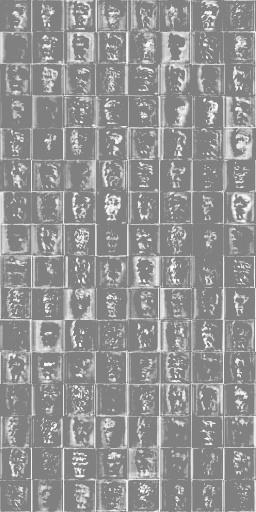
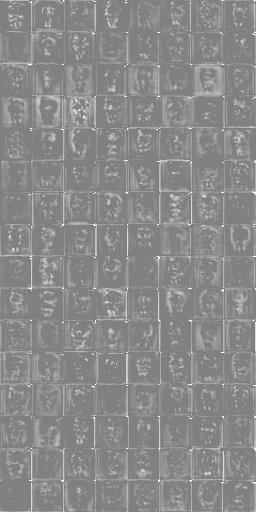
2/16+ add file

diff --git a/pose_estimate/gccpm-look-into/test.py b/pose_estimate/gccpm-look-into/test.py
@@ -110,7 +110,6 @@ def evaluate(dataset, results_folder, net, multiscale=False, visualize=False, sa
         sample = dataset[sample_id]
         file_name = sample['file_name']
         img = sample['image']
-
         if get_feature:
             avg_heatmaps,mid_feature = infer(net, img, scales, base_height, stride, num_kps=num_kps, visualize_feature=get_feature)
             save_feature_to_img(mid_feature, results_folder)
@@ -174,15 +173,20 @@ def evaluate(dataset, results_folder, net, multiscale=False, visualize=False, sa
 
 if __name__ == '__main__':
     parser = argparse.ArgumentParser()
-    parser.add_argument('--dataset_folder', type=str, default="./data_anime", help='path to dataset folder')
     parser.add_argument('--experiment_name', type=str, default='test',
                         help='name of output file with detected keypoints')
-    parser.add_argument('--checkpoint-path', type=str, default="checkpoints/checkpoint_real69.pth", help='path to the checkpoint')
     parser.add_argument('--multiscale', action='store_true', help='average inference results over multiple scales')
     parser.add_argument('--visualize', type=bool, default=True, help='show keypoints')
     parser.add_argument('--get_feature', type=bool, default=True, help='--get_feature')
     parser.add_argument('--save_maps', action='store_true', help='show keypoints')
-    parser.add_argument('--num_kps', type=int, default=21,  # need change 16 for real 21 for anime
+    # parser.add_argument('--checkpoint-path', type=str, default="checkpoints/checkpoint_real69.pth", help='path to the checkpoint')
+    # parser.add_argument('--dataset_folder', type=str, default="./data_anime", help='path to dataset folder')
+    # parser.add_argument('--num_kps', type=int, default=21,  # need change 16 for real 21 for anime
+    #                     help='number of key points')
+
+    parser.add_argument('--checkpoint-path', type=str, default="checkpoints/checkpoint_real.pth", help='path to the checkpoint')
+    parser.add_argument('--dataset_folder', type=str, default="./data_lip", help='path to dataset folder')
+    parser.add_argument('--num_kps', type=int, default=16,  # need change 16 for real 21 for anime
                         help='number of key points')
     args = parser.parse_args()
 

diff --git a/pose_estimate/gccpm-look-into/val.py b/pose_estimate/gccpm-look-into/val.py
@@ -126,10 +126,10 @@ if __name__ == '__main__':
     parser.add_argument('--dataset_folder', type=str, default="./data_lip", help='path to dataset folder')
     parser.add_argument('--output-name', type=str, default='detections.csv',
                         help='name of output file with detected keypoints')
-    parser.add_argument('--checkpoint-path', type=str, required=True, help='path to the checkpoint')
+    parser.add_argument('--checkpoint-path', type=str, default="checkpoints/checkpoint_real.pth", help='path to the checkpoint')
     parser.add_argument('--multiscale', action='store_true', help='average inference results over multiple scales')
     parser.add_argument('--visualize', action='store_true', help='show keypoints')
-    parser.add_argument('--num_kps', type=int, default=21,  # need change 16 for real 21 for anime
+    parser.add_argument('--num_kps', type=int, default=16,  # need change 16 for real 21 for anime
                         help='number of key points')
     args = parser.parse_args()
 

diff --git a/data_prepare/combine_img.py b/data_prepare/combine_img.py
@@ -1,7 +1,7 @@
 import PIL.Image as Image
 import os
 
-IMAGES_PATH = r'D:\work\pycharmproject\Real2Animation-video-generation\pose_estimate\gccpm-look-into\test_results\test0216-184022_test'
+IMAGES_PATH = r'D:\work\pycharmproject\Real2Animation-video-generation\pose_estimate\gccpm-look-into\test_results\test0217-094949_test'
 IMAGES_FORMAT = ['.jpg', '.JPG']  # 图片格式
 IMAGE_SIZE = 32  # size, totally 128 imgs
 IMAGE_ROW = 16  # 图片间隔，也就是合并成一张图后，一共有几行

diff --git a/pose_estimate/gccpm-look-into/datasets/lip.py b/pose_estimate/gccpm-look-into/datasets/lip.py
@@ -120,7 +120,8 @@ class LipTestDataset(Dataset):
         self._names = [line.rstrip('\n') for line in open(os.path.join(self._dataset_folder, 'Testing_images', 'test_id.txt'), 'r')]
 
     def __getitem__(self, id):
-        name = '{}.jpg'.format(self._names[id])
+        # name = '{}.jpg'.format(self._names[id])
+        name = self._names[id]
         img = cv2.imread(os.path.join(self._dataset_folder, 'Testing_images', 'testing_images', name))
         sample = {
             'image': img,
